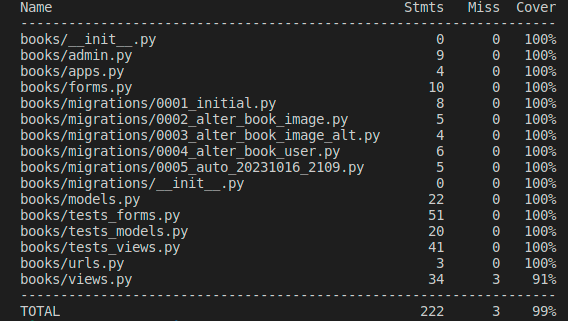
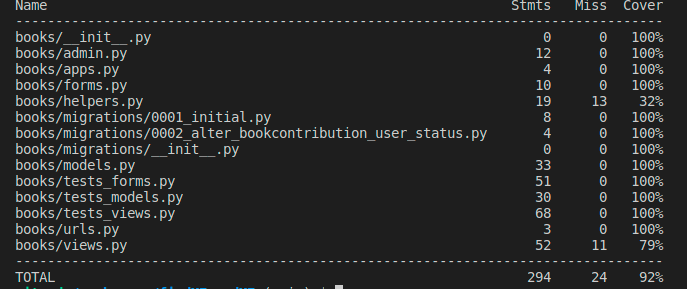
test: testing and validation the BookContribution model

diff --git a/books/tests_models.py b/books/tests_models.py
@@ -1,5 +1,6 @@
 from django.test import TestCase
-from .models import Book
+from django.contrib.auth.models import User
+from .models import Book, BookContribution
 
 
 class TestBook(TestCase):
@@ -20,8 +21,8 @@ class TestBook(TestCase):
 
     def test_language_defaults_to_english(self):
         """Testing default language"""
-        print('Test default language to en')
-        self.assertEqual(self.book.language, 'en')
+        print('Test default language to English')
+        self.assertEqual(self.book.language, 'English')
 
     def test_image_defaults_to_placeholder(self):
         """Testing default image placeholder"""
@@ -43,3 +44,22 @@ class TestBook(TestCase):
         """Testing string representation of book object"""
         print("Test string of book object")
         self.assertEqual(str(self.book), 'Steve Jobs published in 2011')
+
+
+class TestBookContribution(TestCase):
+    """ Unit test for BookContribution model """
+
+    def setUp(self):
+        print("Set Up: BookContribution")
+        self.contribution = BookContribution.objects.create()
+
+    def tearDown(self):
+        print('teardown: BookContribution')
+
+    def test_default_user_status_to_contributor(self):
+        """Testing default value for user status to be contributor"""
+        print("Test default value of contributor for user status")
+        self.assertEqual(
+            self.contribution.user_status,
+            'contributor'
+        )

diff --git a/books/models.py b/books/models.py
@@ -14,17 +14,17 @@ LANGUAGE_TYPE = [
 CITY = [
     ('Vienna', 'Vienna'),
     ('Prague', 'Prague'),
-    ('Dublin','Dublin')
+    ('Dublin', 'Dublin')
     ]
 
 LOCATION = [
-    ('by a friend','by a friend '), 
+    ('by a friend', 'by a friend '),
     ('to be found', 'to be found')
     ]
 
 USER_STATUS = [
     ('owner', 'owner'),
-    ('contributor','contributor')
+    ('contributor', 'contributor')
 ]
 
 
@@ -65,10 +65,10 @@ class Book(models.Model):
     created_on = models.DateField(auto_now_add=True)
     updated_on = models.DateField(auto_now_add=True)
     key = models.CharField(max_length=10, default='23')
-    
+
     class Meta:
         """ Order by title and create date """
-        ordering = ['-created_on', 'title',]
+        ordering = ['-created_on', 'title', ]
 
     def __str__(self):
         string = f"{self.title} published in {self.published_year}"
@@ -91,7 +91,7 @@ class BookContribution(models.Model):
         )
     user_status = models.CharField(
         max_length=20,
-        choices = USER_STATUS,
+        choices=USER_STATUS,
         default='contributor',
         blank=False
         )

diff --git a/README_testing.md b/README_testing.md
@@ -88,7 +88,7 @@ The Lighthouse in Chrome DevTools evaluates the webpage for performance, accessi
 | Module            | Report | Total Coverage   |
 |-------------------|--------|------------------|
 | `home`            | <img src="./docs/testing/automated/python_home.png" alt="python_home" width="200"/>   | 100% |
-|`books`     | <img src="./docs/testing/automated/python_books.png" alt="python_books" width="200"/> | 99% |
+|`books`     | <img src="./docs/testing/automated/python_books.png" alt="python_books" width="200"/> | 92% |
 
 
 Todo: Testing 
